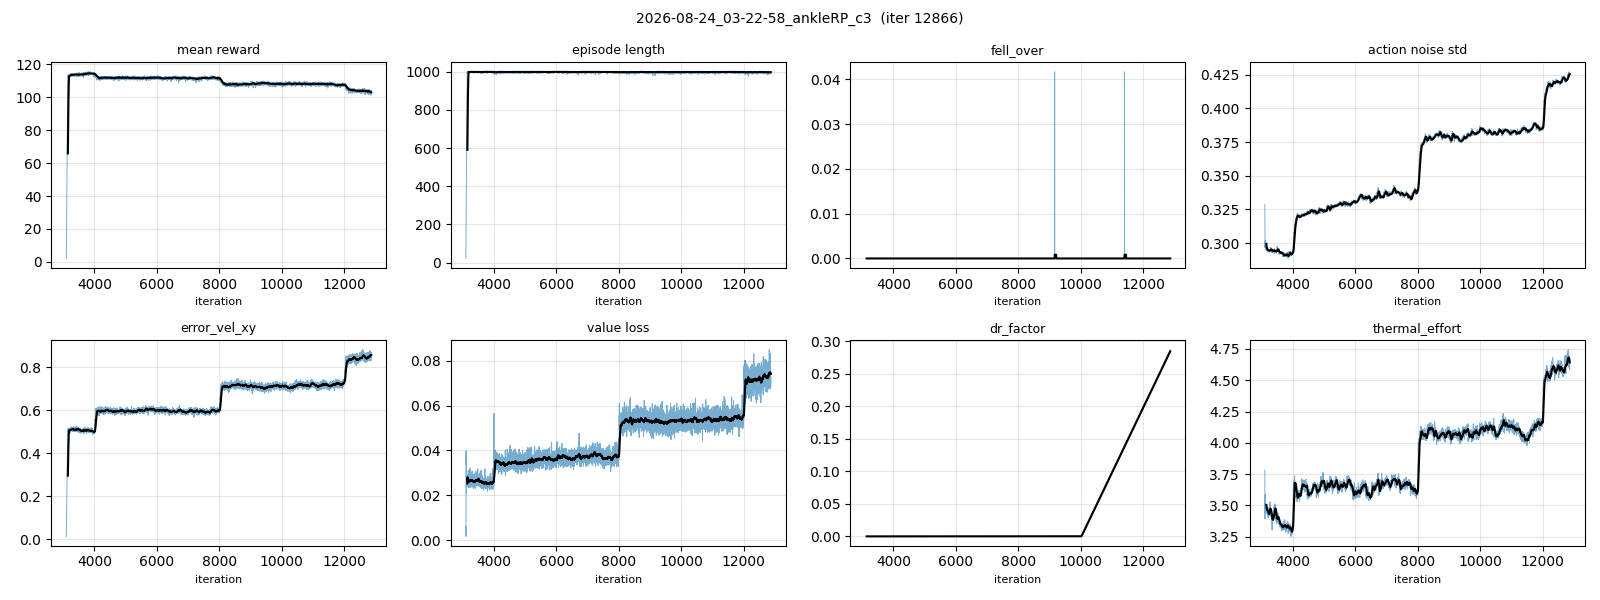
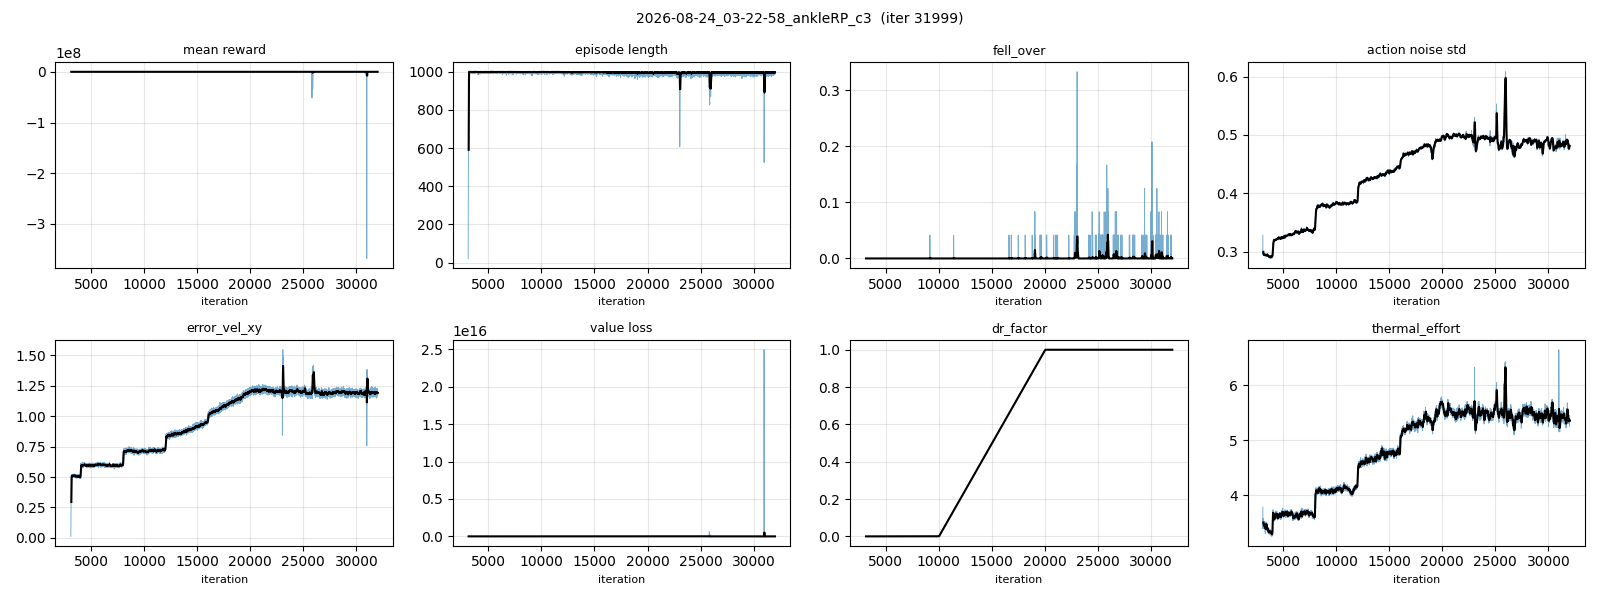
CORRECTION: the RP ankle saturation claim was a frame error - RP's motors sit at the crank too, so ankle-axis torque must be mapped through the loop Jacobian before comparing to the T-N curve; correctly mapped both arms run at 0.44-0.55 utilisation with <=0.03% saturation (mapping validated at corr 

diff --git a/docs/66_experiment_registry.md b/docs/66_experiment_registry.md
@@ -114,7 +114,7 @@
 |---|---|---|---|
 | ~~ankleAB_c1 / ankleRP_c1~~ (`20-45-09/27`, ✗ iter 172 중단) | 팔이 영점(매달림)으로 weld → hip_roll 링크와 14 mm 관통 | — | ✗ 상체 팔 15° 외전 고정 후 c2로 재시작 |
 | (config-test) ankleAB_softtest / softtest2 [[2026-08-24_ankleAB_softtest]] [[2026-08-24_ankleAB_softtest2]] (02:00 / 02:43, c2r 3100+800 iter, 1024 env) | soft-landing 항 형태: 선형 w −2 vs 제곱 w −1 | 접지속도 1.24 → **2.42**(선형, 해킹) / **0.98**(제곱) m/s; 피크 1.50 → 1.66 / 1.31 BW | 선형 기각·제곱 채택 → c3 |
-| **ankleAB_c3 / ankleRP_c3** "flat-2.5max gen21-bundle+**soft-landing** curriculum-dr+push ankle-AB / -RP (2026-08-24)" (`03-22-35` / `03-22-58`, ✅**완주 32,000** 2026-08-25 23:06, 39 h 45 m) [[2026-08-24_ankleAB_c3]] [[2026-08-24_ankleRP_c3]] | c2 + `PYG_SOFT_LANDING`(제곱 접지속도 w −1·h 0.10, GRF 캡 420/560) — 두 arm 동일, **유일 변인 = 발목 기구학** | **낙상 0.000 양쪽**(vx 2.5·DR 만배 12k iter 소화). fc 전체박스 121명령×15 s: 추종 순수vx **AB 0.89 / RP 0.90**, vy 0.68 / 0.75. **모터 여유 = 이 실험의 결론: AB 크랭크 util p95 0.51·한계도달 0.02 % vs RP ankle_pitch 0.80·3.32 %** (열은 rms/rated 0.65로 동일). 에너지 CoT RP 0.277 < AB 0.314(−12 %), 충격 무승부, 보폭 AB 273 vs RP 175 mm. ★두 arm 모두 **명령 0.25 m/s 무시**(리워드 산술상 정지가 최적) | ✅ AB = 하드웨어 여유, RP = 에너지·비용. 직렬 발목은 같은 RS03로 vx 2.5에서 포화. 🔄 fcp·전체격자 평가·영상 진행 중 |
+| **ankleAB_c3 / ankleRP_c3** "flat-2.5max gen21-bundle+**soft-landing** curriculum-dr+push ankle-AB / -RP (2026-08-24)" (`03-22-35` / `03-22-58`, ✅**완주 32,000** 2026-08-25 23:06, 39 h 45 m) [[2026-08-24_ankleAB_c3]] [[2026-08-24_ankleRP_c3]] | c2 + `PYG_SOFT_LANDING`(제곱 접지속도 w −1·h 0.10, GRF 캡 420/560) — 두 arm 동일, **유일 변인 = 발목 기구학** | **낙상 0.000 양쪽**(vx 2.5·DR 만배 12k iter 소화). fc 전체박스 121명령×15 s: 추종 순수vx **AB 0.89 / RP 0.90**, vy 0.68 / 0.75. **모터 여유(2026-08-26 정정, 모터축 사상): AB 0.51–0.53 / RP 0.44–0.55, 포화 ≤0.03 % — 사실상 동률** (앞선 'RP 0.80·3.3 %'는 발목축을 모터곡선에 대조한 오류). 발목축 수요 p99 59–65 N·m → **RS03 직결 불가, 2-RSU 증폭 필요**. 에너지 CoT RP 0.277 < AB 0.314(−12 %), 충격 무승부, 보폭 AB 273 vs RP 175 mm. ★두 arm 모두 **명령 0.25 m/s 무시**(리워드 산술상 정지가 최적) | ✅ 차이는 하드웨어가 아니라 **행동공간**. RP = 에너지 −12 %·학습 1.7배, AB = 인간형 파형·넓은 보폭. 🔄 fcp·전체격자 평가·영상 진행 중 |
 | **ankleAB_c2 → c2r** "flat-2.5max gen21-bundle curriculum-dr+push ankle-AB-loop (2026-08-23)" (`21-02-10` → OOM iter1252 → `23-17-35_ankleAB_c2r` resume model_1200, ⏸ iter 4400에서 중단 → c3로 계승) [[2026-08-23_ankleAB_c2]] | vs gen21_bent_p2: 프린트 질량·실측 모터(RS04 J .0163/b .0095/tc .269, RS03 .0153/.0223/.285)·T-N 곡선·**폐루프 발목(크랭크 RS03 ×2, Kp 22.3/Kd 1.41/60 N·m)**·단일 런 커리큘럼(DR 10k→20k, vx 단계 2.5@16k)·16384 env·상체 weld+팔 15° 외전 고정·hip_yaw ±45° | iter 610: reward 109·fell 0; iter 1200 분석(93 §5b): 보행 발목 17° 사용·토크 12.8 N·m·GRFc 1.39 BW, **정지 잔떨림+0.4 Hz 스웨이**; 최신 스냅샷 iter 2659(08-24 01:22): reward 114.1(50avg 114.4)·fell 0.000·err_vel_xy 0.509·thermal 4.02 | 🔄 CONTINUE (4k 게이트서 정지 떨림 재확인) |
 | (분석) 폐루프 구속 강성 solimp 전례·변인통제 [[94_loop_constraint_stiffness]] (2026-08-24) | 같은 AB 정책, 구속만 0.9→0.9999 5단계 | 튐 |Δτ| p99: 기본 18.0 / 0.99–0.9999 11–12 N·m, 폐루프 오차 8.4→0.08 mm | 0.999 유지; 학습 A/B(0.95/0.99·solref 5 ms, BRUCE 데드밴드)는 본런 후 |
 | **ankleRP_c2** "flat-2.5max gen21-bundle curriculum-dr+push ankle-RP-serial (2026-08-23)" (`2026-08-23_21-02-18`, ⏸ iter 3400에서 중단 → c3로 계승) [[2026-08-23_ankleRP_c2]] | ankleAB_c2와 **단일변인 = 발목 기구**: 직렬 pitch/roll(Kp 28.5/Kd 1.81) + 루프 자코비안 크랭크공간 클램프(±60, T-N) + 반영 관성/마찰. env.yaml diff = 발목 항목만(launch 직후 확인) | iter 610: reward 113·fell 0; iter 1200 분석: 발목 10° 사용·**bang-bang 목표(−40↔+35°) PD 포화 토크 스파이크**·GRFc 1.51 BW; 최신 스냅샷 iter 3433(08-24 02:22): reward 113.5(50avg 113.8)·fell 0.000·err_vel_xy 0.509·thermal 3.56 | 🔄 CONTINUE |

diff --git a/docs/experiments/2026-08-24_ankleAB_c3.md b/docs/experiments/2026-08-24_ankleAB_c3.md
@@ -121,6 +121,26 @@ vx +1.25 -> 1.33 (106%)  |  +2.50 -> 2.34 (94%)
 - ⚠ knee `τ_max = 120.0`은 effort_limit과 정확히 같다 = **클립 아티팩트**. 순시 설계값은 p95/p99를 쓸 것.
 - 속도는 전 관절 무부하의 ≤28 %로 여유(`knee_overspeed` 기여 ≈ 0, 실측 한계 19.9 rad/s).
 
+> ### ⚠ 정정 (2026-08-26) — RP 발목 포화 수치 철회
+> 앞서 "RP ankle_pitch가 T-N 대비 util p95 0.80, 스텝의 3.3 %에서 포화"라고 보고한 것은 **좌표계 오류**다.
+> RP 모드에서도 모터는 **크랭크에 있고**(`AnkleRpTnActuator`가 루프 자코비안으로 크랭크공간에서 클램프한다),
+> 나는 **발목축 토크를 모터 T-N 곡선에 직접 대조**했다. 엔벨로프의 per-pose $J_c$로 모터축에 사상해 다시 계산하면:
+>
+> | | 잘못된 값(발목축) | **올바른 값(모터축)** | 한계도달 |
+> |---|---|---|---|
+> | RP ankle_pitch (fcp) | 0.86 | **0.48** | 0.00 % |
+> | RP ankle_roll (fcp) | 0.27 | **0.55** | 0.01 % |
+> | AB crank_B (fcp) | 0.53 | 0.53 (원래 모터축) | 0.03 % |
+>
+> 변환 검증: AB 런의 크랭크 토크를 같은 $J_c^T$로 발목축에 사상한 값이 시뮬이 기록한 `tauank_eq`와 **상관 1.0000·상대오차 0.5 %**로 일치.
+> **결론 정정: 두 arm의 모터 활용률은 0.44–0.55로 사실상 같다.** 당연한 결과다 — 두 arm 모두 같은 2-RSU 기구의 토크 한계를 쓰고,
+> 차이는 **정책이 크랭크각을 지령하느냐 발목각을 지령하느냐(행동공간)**이지 하드웨어가 아니다.
+>
+> **살아남는 하드웨어 결론**: 이 보행은 발목 pitch 축에서 **p99 약 59–65 N·m**를 요구한다(AB 59.4 / RP 64.5).
+> RS03을 **발목에 직결**하면 peak 60 N·m·해당 속도에서는 그보다 낮으므로 **직결 구동은 불가**하고,
+> 2-RSU가 크랭크 토크를 약 1.6배로 키워주기 때문에 크랭크당 약 40 N·m(util 0.5)로 감당된다.
+> 이건 A/B로 *측정*한 것이 아니라 측정된 발목 토크에서 *유도*한 결론이다.
+
 ## §12 판정
 **합격.** 32k 완주·낙상 0·추종 89 %(순수 vx). soft-landing 도입 목적 달성(접지속도 c2 1.24 → 게이트 평균 1.04 m/s, GRF 피크 1.50 → 1.16 BW).
 ★ **하드웨어 관점 핵심**: 전체 명령 박스에서 **크랭크 최대 util p95 0.51, T-N 한계 도달 0.02 %** — RS03 2개가 발목 수요를 여유롭게 감당한다.
@@ -132,3 +152,5 @@ vx +1.25 -> 1.33 (106%)  |  +2.50 -> 2.34 (94%)
 - 내장 평가기 전체 격자(8방위 × 속도, GPU) → §3c 통계 보강
 - accumulate 영상 + 시연 영상(GRF 벡터 + signed wrench 패널, 실시간)
 - AB/RP 비교 노트
+| 08-26 01:55 | 31999 | 87.6 (50avg 88.4) | 991 | 0.491 | 0.116 | 7.63 | -0.0042 / 1.7e-04 | 0.000 / 0.167 | 1.151 / 0.698 | 1.00 / 2.5 | 6.33 | (자동 스냅샷, 판정은 게이트 리뷰에서) |
+| 08-26 02:57 | 31999 | 87.6 (50avg 88.4) | 991 | 0.491 | 0.116 | 7.63 | -0.0042 / 1.7e-04 | 0.000 / 0.167 | 1.151 / 0.698 | 1.00 / 2.5 | 6.33 | (자동 스냅샷, 판정은 게이트 리뷰에서) |

diff --git a/docs/experiments/2026-08-24_ankleRP_c3.md b/docs/experiments/2026-08-24_ankleRP_c3.md
@@ -120,6 +120,26 @@ vx +1.25 -> 1.27 (102%)  |  +2.50 -> 2.39 (96%)
 - ⚠ knee `τ_max = 120.0`은 effort_limit과 정확히 같다 = **클립 아티팩트**. 순시 설계값은 p95/p99를 쓸 것.
 - 속도는 전 관절 무부하의 ≤28 %로 여유(`knee_overspeed` 기여 ≈ 0, 실측 한계 19.9 rad/s).
 
+> ### ⚠ 정정 (2026-08-26) — RP 발목 포화 수치 철회
+> 앞서 "RP ankle_pitch가 T-N 대비 util p95 0.80, 스텝의 3.3 %에서 포화"라고 보고한 것은 **좌표계 오류**다.
+> RP 모드에서도 모터는 **크랭크에 있고**(`AnkleRpTnActuator`가 루프 자코비안으로 크랭크공간에서 클램프한다),
+> 나는 **발목축 토크를 모터 T-N 곡선에 직접 대조**했다. 엔벨로프의 per-pose $J_c$로 모터축에 사상해 다시 계산하면:
+>
+> | | 잘못된 값(발목축) | **올바른 값(모터축)** | 한계도달 |
+> |---|---|---|---|
+> | RP ankle_pitch (fcp) | 0.86 | **0.48** | 0.00 % |
+> | RP ankle_roll (fcp) | 0.27 | **0.55** | 0.01 % |
+> | AB crank_B (fcp) | 0.53 | 0.53 (원래 모터축) | 0.03 % |
+>
+> 변환 검증: AB 런의 크랭크 토크를 같은 $J_c^T$로 발목축에 사상한 값이 시뮬이 기록한 `tauank_eq`와 **상관 1.0000·상대오차 0.5 %**로 일치.
+> **결론 정정: 두 arm의 모터 활용률은 0.44–0.55로 사실상 같다.** 당연한 결과다 — 두 arm 모두 같은 2-RSU 기구의 토크 한계를 쓰고,
+> 차이는 **정책이 크랭크각을 지령하느냐 발목각을 지령하느냐(행동공간)**이지 하드웨어가 아니다.
+>
+> **살아남는 하드웨어 결론**: 이 보행은 발목 pitch 축에서 **p99 약 59–65 N·m**를 요구한다(AB 59.4 / RP 64.5).
+> RS03을 **발목에 직결**하면 peak 60 N·m·해당 속도에서는 그보다 낮으므로 **직결 구동은 불가**하고,
+> 2-RSU가 크랭크 토크를 약 1.6배로 키워주기 때문에 크랭크당 약 40 N·m(util 0.5)로 감당된다.
+> 이건 A/B로 *측정*한 것이 아니라 측정된 발목 토크에서 *유도*한 결론이다.
+
 ## §12 판정
 **합격(학습), 단 발목에 여유가 없다.** 32k 완주·낙상 0·추종 90 %(순수 vx)로 AB와 동급이고 측면은 오히려 낫다(0.75 vs 0.68).
 ★ **하드웨어 관점 핵심**: **ankle_pitch가 T-N 대비 util p95 0.80, 스텝의 3.32 %에서 한계 도달**. 열(τ_rms/rated 0.65)은 AB와 같으나 **순시 여유가 없다**.
@@ -132,3 +152,5 @@ vx +1.25 -> 1.27 (102%)  |  +2.50 -> 2.39 (96%)
 - 내장 평가기 전체 격자(8방위 × 속도, GPU) → §3c 통계 보강
 - accumulate 영상 + 시연 영상(GRF 벡터 + signed wrench 패널, 실시간)
 - AB/RP 비교 노트
+| 08-26 01:55 | 31999 | 88.1 (50avg 88.6) | 1000 | 0.484 | 0.106 | 7.55 | -0.0066 / 8.6e-04 | 0.000 / 0.083 | 1.208 / 0.732 | 1.00 / 2.5 | 5.45 | (자동 스냅샷, 판정은 게이트 리뷰에서) |
+| 08-26 02:57 | 31999 | 88.1 (50avg 88.6) | 1000 | 0.484 | 0.106 | 7.55 | -0.0066 / 8.6e-04 | 0.000 / 0.083 | 1.208 / 0.732 | 1.00 / 2.5 | 5.45 | (자동 스냅샷, 판정은 게이트 리뷰에서) |

diff --git a/docs/96_tracking_error_bottleneck.md b/docs/96_tracking_error_bottleneck.md
@@ -65,7 +65,10 @@ $$\text{error\_vel\_xy} = \frac{\sum_t e_t}{400} = \bar{e}\cdot\frac{1000}{400} 
 블록을 리셋 없이 이어 붙인 순서(1.2→1.6→−1.2)에서 상태가 누적 악화된 것으로 보인다 —
 **유지-명령 프로브는 블록 사이 리셋이 필요**하다(도구 개선 항목).
 
-## 4. 액추에이터는 병목이 아니다 (AB) / RP는 발목이 붙는다
+## 4. 액추에이터는 병목이 아니다 (AB) / ~~RP는 발목이 붙는다~~
+> ⚠ **정정 2026-08-26**: 아래 RP 행(ankle_pitch util 0.83·포화 3.7 %)은 **발목축 토크를 모터 T-N 곡선에 직접 대조한 오류**다.
+> RP도 모터는 크랭크에 있고(`AnkleRpTnActuator`가 크랭크공간에서 클램프), 모터축으로 사상하면 **0.44–0.55·포화 ≤0.03 %**로 AB와 동률이다.
+> 검증(변환 corr 1.0000)과 상세는 [[2026-08-24_ankleRP_c3]] 정정 블록. 이 절의 **AB 수치와 "액추에이터는 병목이 아니다"는 결론은 유효**하다.
 무작위 명령 롤아웃 전체에서 실측 48 V T-N 곡선(그 순간 속도에서의 한계 토크) 대비 사용률:
 
 | arm | 최다 부하 관절 | util p95 | 한계 도달 비율 | τ p95 |

diff --git a/docs/docs/90_paper_material_map.md b/docs/docs/90_paper_material_map.md
@@ -1,0 +1,8 @@
+
+---
+
+## 10. 투고 타당성 판정 (2026-08-23 추가) → [91_paper_feasibility_icra2027.md](91_paper_feasibility_icra2027.md)
+
+- **ICRA 2026은 이미 종료**(2026-06). 이 문서의 "논문" 타겟은 ICRA 2027(마감 2026-09-15) 이후로 읽을 것.
+- 레드팀 3인(신규성/검증/엄밀성) 전원 2/5: ICRA 2027 본트랙 제출 불가 → **RA-L(11–12월) → IROS 2027** 또는 IROS 2027 본트랙(2027-03-01). "first end-to-end" 주장은 Albers & Ottnad'08·LOLA·Vitruvio·Geonea'26·Disney'24로 반박됨 → 증분으로 포지셔닝.
+- §1 챕터 9개 중 논문 척추는 **C1 설계값 독트린 → C2 발목 하드제약 합성 → C3 스톱 충분성**; §3 갭 #1(freeze 재측정)과 **발목 벤치 1회**가 청구의 선행조건(91 §5 E1–E7). 사전연구 41편 지도는 91 §2.
